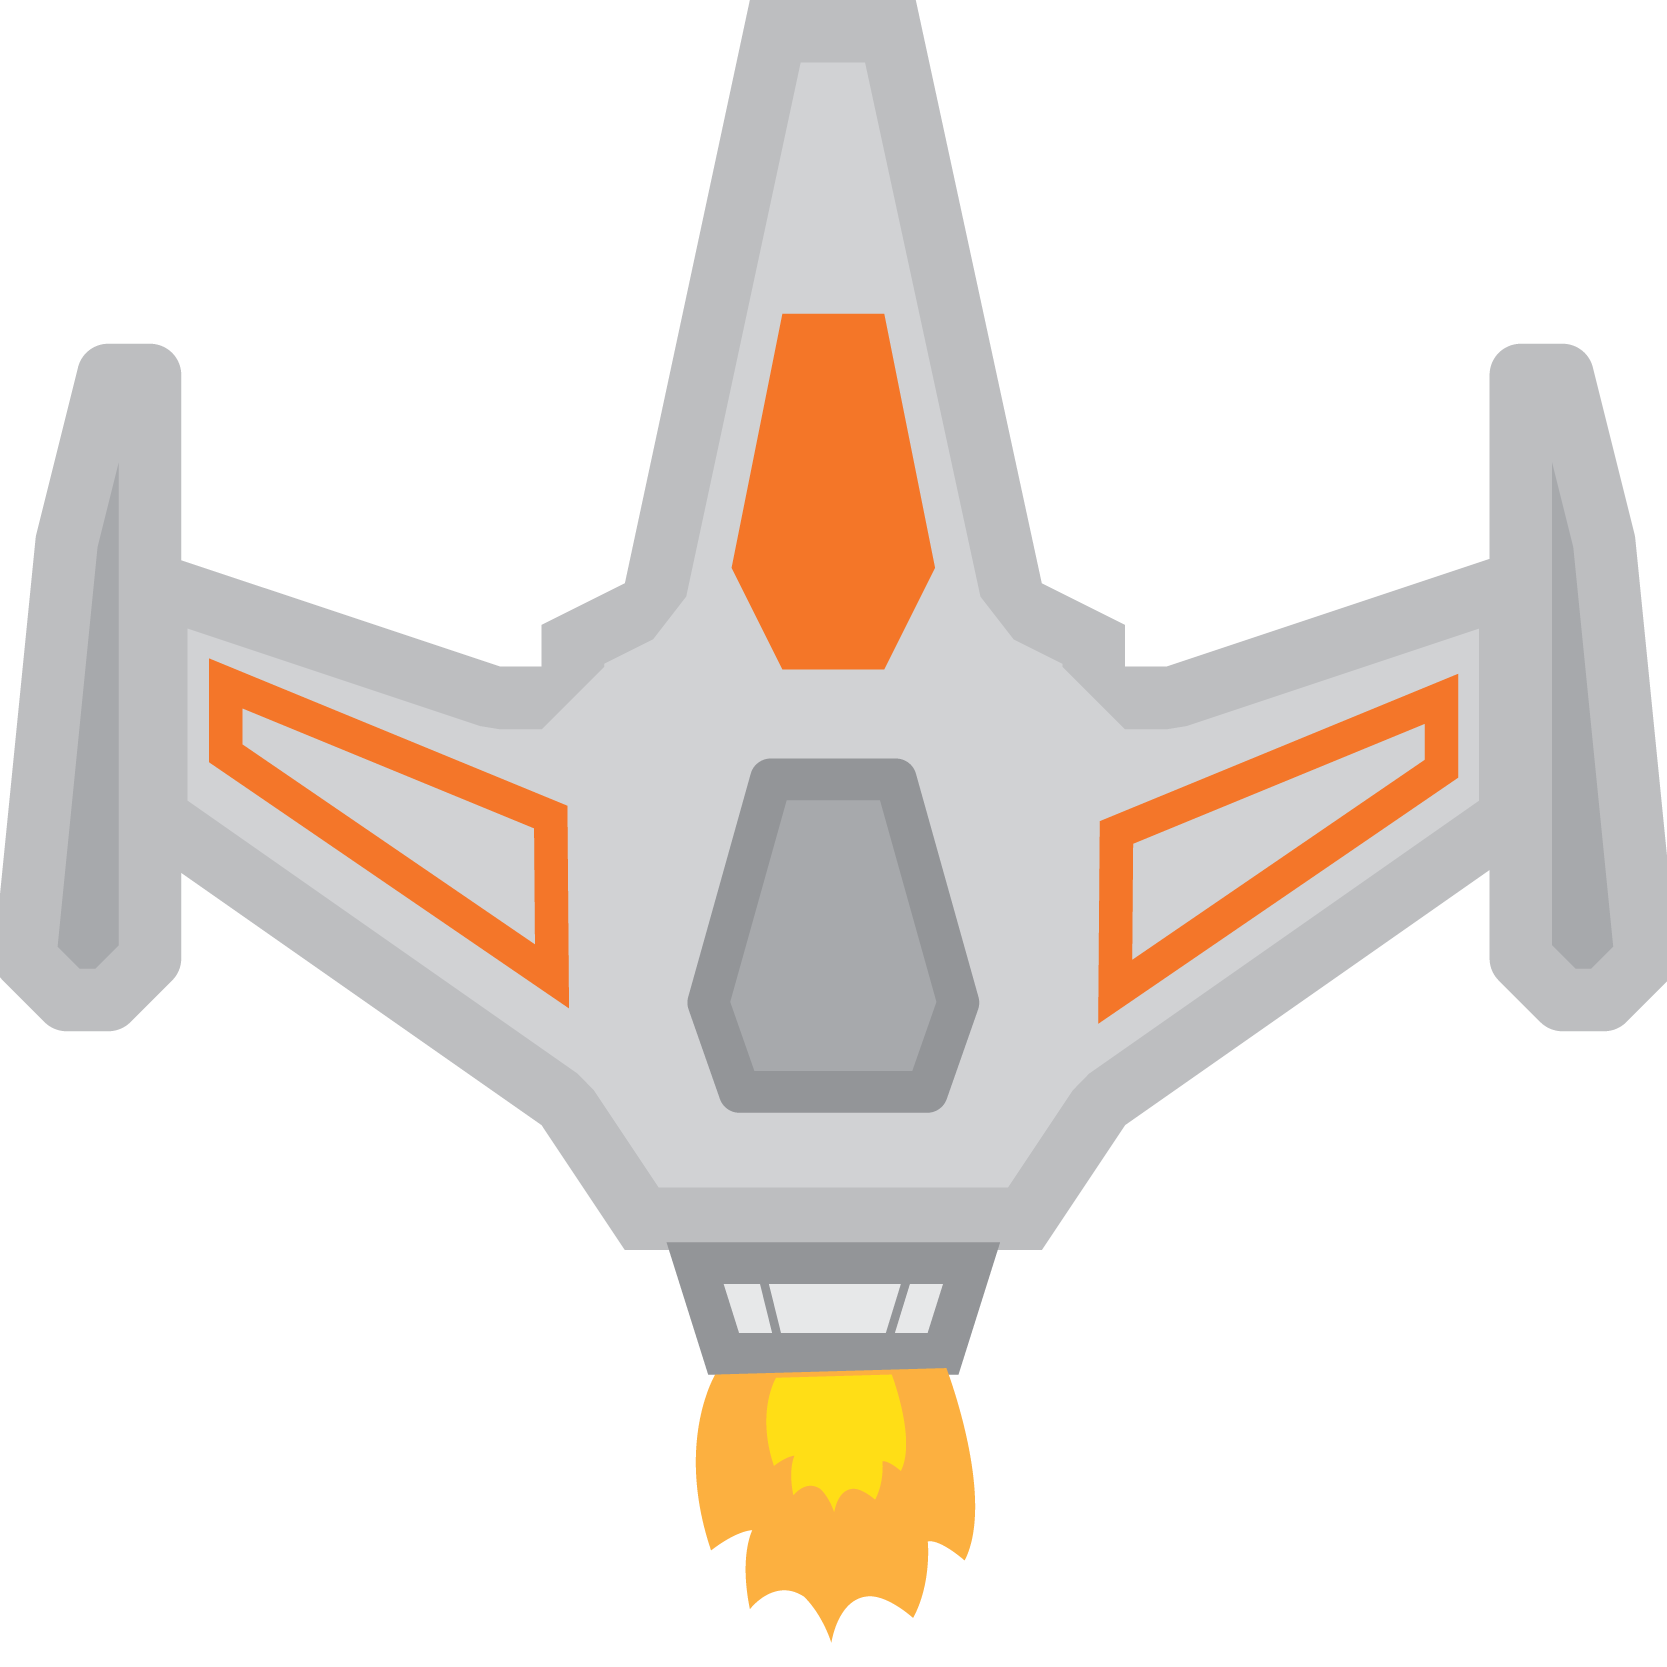
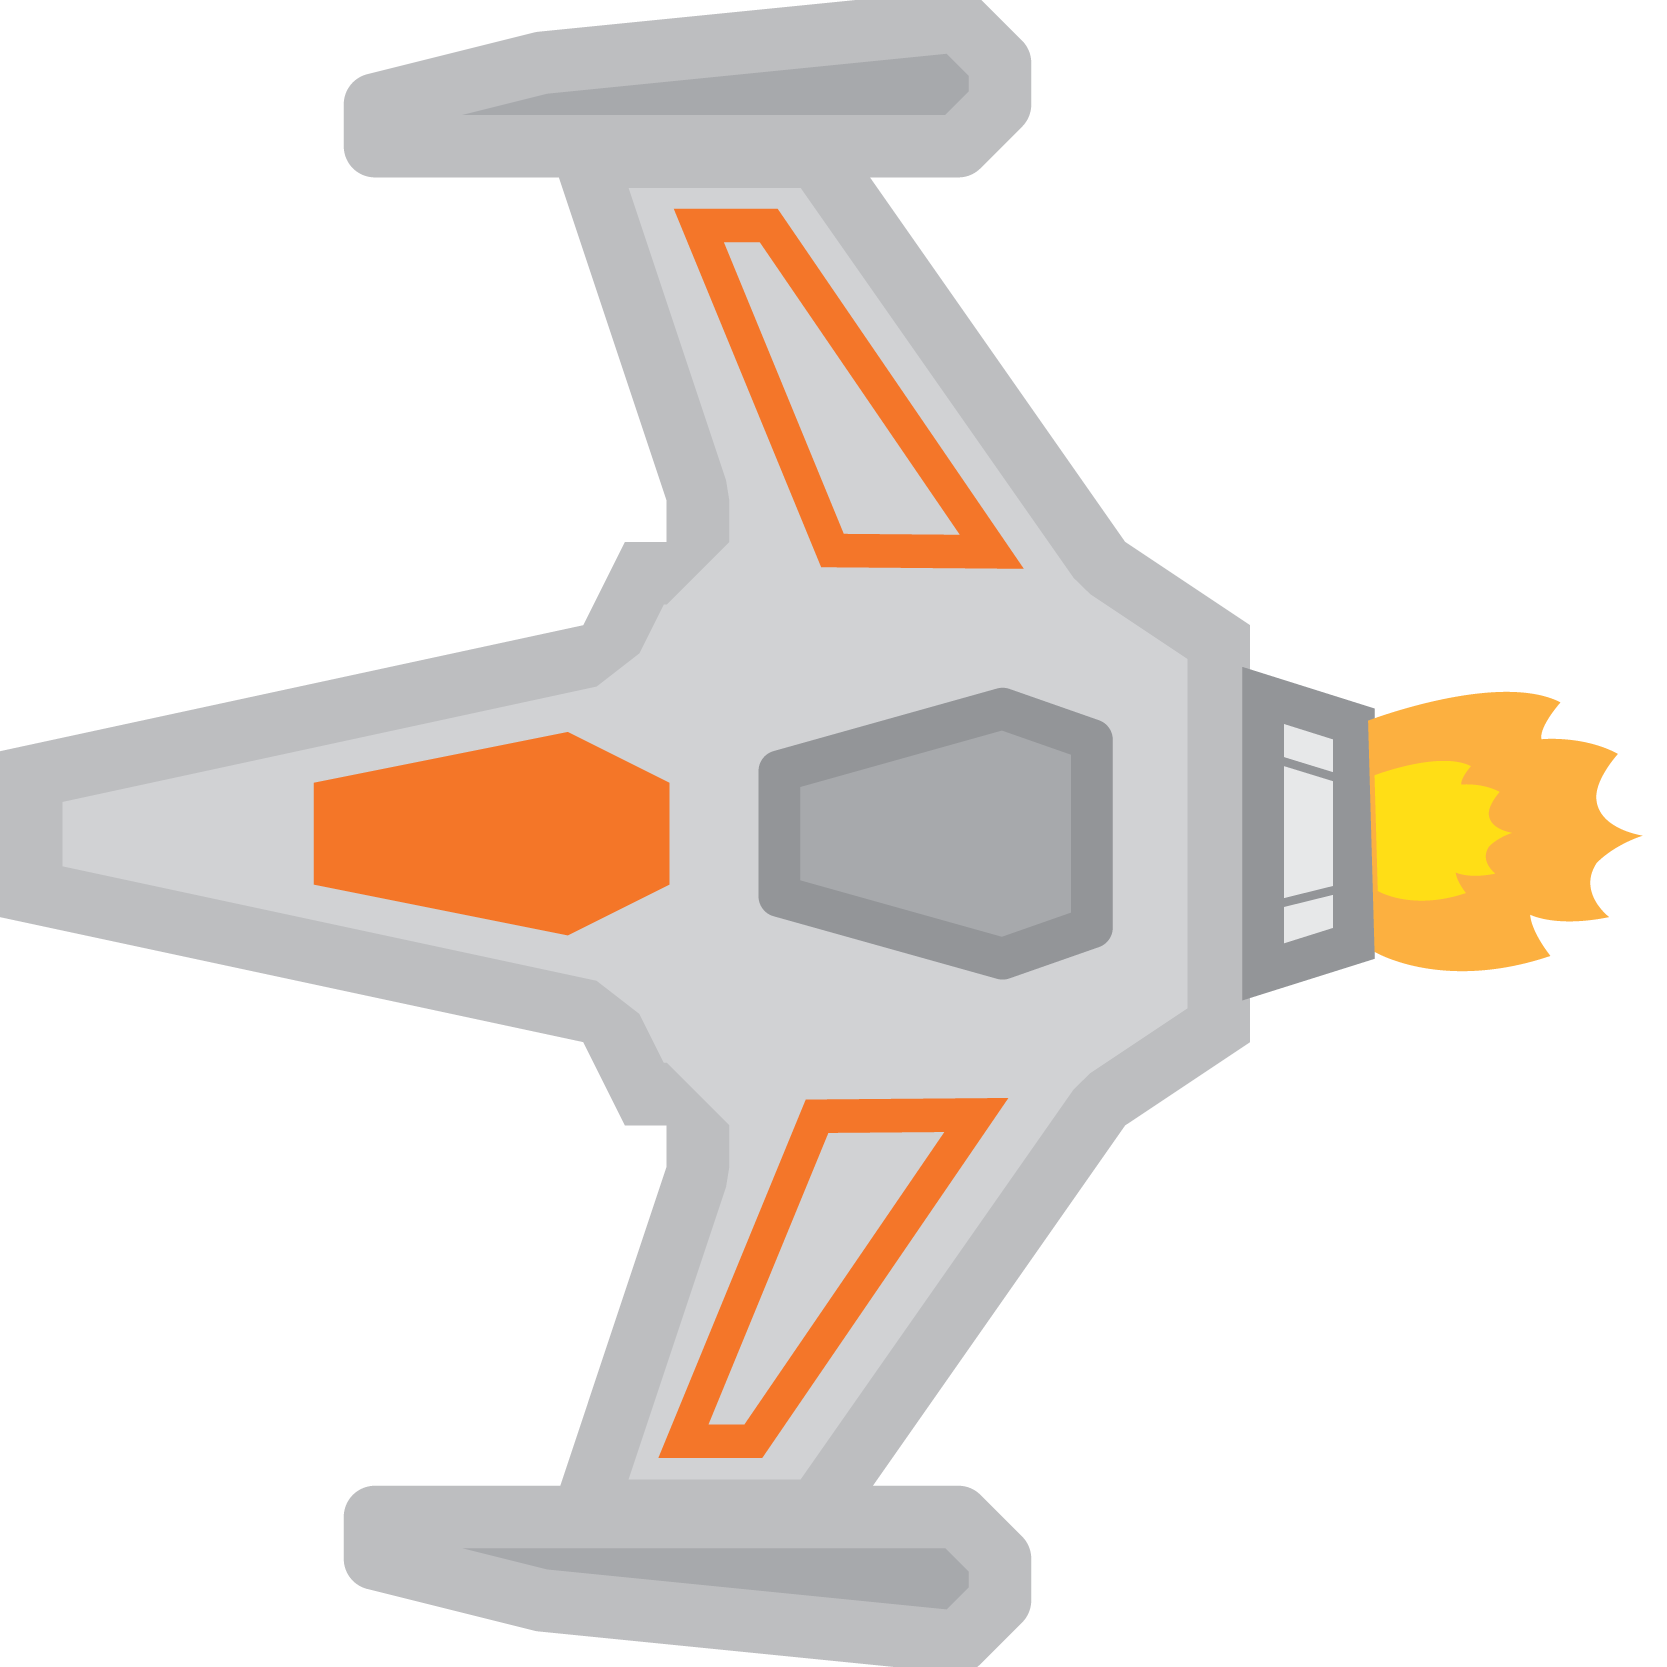
Added different difficulties

diff --git a/views_manager.py b/views_manager.py
@@ -1,0 +1,91 @@
+# views_manager.py
+
+import arcade
+from main_menu import MainMenu
+from game.game import AsteroidsGame
+
+
+
+class MainMenuView(arcade.View):
+    
+    def __init__(self):
+        self.main_menu_view = MainMenu(self)
+        # self.game_view = AsteroidsGame(self)
+        self.current_view = self.main_menu_view
+        self.current_view.on_show()
+        # Assign lambda functions to handle the button click events with different arguments
+        self.main_menu_view.easy_button.on_click = lambda event: self.on_buttonclick("Easy")
+        self.main_menu_view.medium_button.on_click = lambda event: self.on_buttonclick("Medium")
+        self.main_menu_view.hard_button.on_click = lambda event: self.on_buttonclick("Hard")
+        self.main_menu_view.quit_button.on_click = lambda event:self.on_quit_buttonclick
+
+    def show_game_view(self):
+        # self.current_view = self.game_view
+        # self.current_view.on_show()
+        self.current_view = AsteroidsGame(self)
+        self.current_view.on_show()
+    
+    def show_main_menu_view(self):
+        self.current_view = self.main_menu_view
+        self.current_view.on_show()
+    
+    def on_draw(self):
+        self.current_view.on_draw()
+    
+    
+    def on_buttonclick(self, difficulty):
+        self.current_view = AsteroidsGame(difficulty)
+        self.current_view.on_show()
+        print("Hola primos")
+    
+    def on_quit_buttonclick(event):
+        # Quit Game
+        arcade.close_window()
+
+class AsteroidsGameView(arcade.View):
+    def __init__(self):
+        super().__init__()
+        # Create an instance of the AsteroidsGame class from game/game.py
+        self.asteroids_game = AsteroidsGame(self)
+
+    def on_show(self):
+        # Initialize the game logic when the view is shown
+        self.asteroids_game.setup()
+
+    def on_draw(self):
+        # Call the on_draw method of the AsteroidsGame class
+        self.asteroids_game.on_draw()
+
+    def on_update(self, delta_time):
+        # Call the update method of the AsteroidsGame class
+        self.asteroids_game.update(delta_time)
+
+    def on_key_press(self, key, modifiers):
+        # # Call the on_key_press method of the AsteroidsGame class
+        # self.asteroids_game.on_key_press(key, modifiers)
+        if key == arcade.key.ESCAPE:
+            # Switch back to ViewsManager and then to MainMenuView
+            views_manager = self.window.show_view(ViewsManager())
+            views_manager.show_main_menu_view()
+
+    def on_key_release(self, key, modifiers):
+        # Call the on_key_release method of the AsteroidsGame class
+        self.asteroids_game.on_key_release(key, modifiers)
+
+
+
+class ViewsManager(arcade.View):
+    # Method automatically called
+    def __init__(self):
+        super().__init__()
+    
+    # Function ran when the view is shown for the first time
+    def on_show_view(self):
+        arcade.set_background_color(arcade.csscolor.GREEN)
+        self.window.show_view(MainMenu())
+    
+    
+    def on_draw(self):
+        arcade.start_render()
+        
+    

diff --git a/game/game.py b/game/game.py
@@ -192,7 +192,7 @@ class AsteroidsGame(arcade.Window):
         
         # If the ship is not alive, draw the "Game Over" text and instructions to continue.
         if not self.ship.alive:
-            self.draw_end_screen()
+            self.draw_game_over_screen()
         else:
             # If the ship is alive, draw current score
             arcade.draw_text("Points: " + str(self.score), SCREEN_WIDTH - 80, 20, arcade.color.WHITE, font_size=15, anchor_x="center")
@@ -495,7 +495,7 @@ class AsteroidsGame(arcade.Window):
             self.ship.texture = arcade.load_texture(SHIP_TEXTURE)
                      
     
-    def draw_end_screen(self):
+    def draw_game_over_screen(self):
         
         # Draw the Game Over text
         arcade.draw_text("Game Over", SCREEN_WIDTH // 2, SCREEN_HEIGHT // 2, arcade.color.WHITE, font_size=50, anchor_x="center")

diff --git a/objects/ship.py b/objects/ship.py
@@ -51,6 +51,7 @@ class Ship(FlyingObject):
 
 
     def draw(self):
+        # print(f"X: {self.position.x}, Y: {self.position.y}, W: {self.width}, H: {self.height}, T: {self.texture}, TO: {self.texture_orientation}, A: {self.alpha}")
         
         # Defines the parameters to draw a rectangle filled with the ship.texture image
-        arcade.draw_texture_rectangle(self.position.x, self.position.y, self.width, self.height, self.texture, self.texture_orientation + 90, self.alpha)
+        arcade.draw_texture_rectangle(self.position.x, self.position.y, self.width, self.height, self.texture, self.texture_orientation, self.alpha)

diff --git a/main_menu.py b/main_menu.py
@@ -9,7 +9,7 @@ class MainMenu(arcade.Window):
     
     def __init__(self, width, height, screen_title):
         super().__init__(width, height, screen_title)
-        arcade.set_background_color(arcade.color.ASH_GREY)
+        arcade.set_background_color(arcade.color.DARK_BLUE_GRAY)
   
         self.uimanager = arcade.gui.UIManager()
         self.uimanager.enable()

diff --git a/main.py b/main.py
@@ -3,7 +3,7 @@
 import arcade
 
 from main_menu import MainMenu
-from game.game import AsteroidsGame
+# from game.game import AsteroidsGame
 from constants import SCREEN_WIDTH, SCREEN_HEIGHT
 
 def main():
